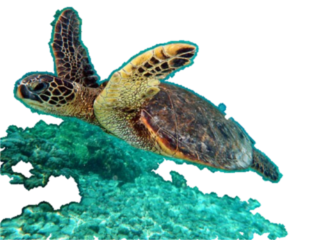
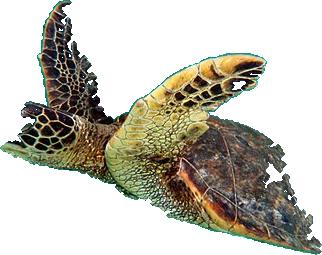
독도 낚시터: 바다로 놓아줄 때 진짜 방생하듯 헤엄쳐 가게 하기
- 통발 안 그 자리에서 사진이 솟아올라 포물선을 그리며 바다에 풍덩 빠지고,
  물보라와 물방울을 내며 헤엄쳐 달아납니다
- 생물마다 바라보는 방향(face)을 적어 두고 그쪽으로 달아나게 함
- 소라·전복·성게·불가사리처럼 헤엄 못 치는 친구는 물방울을 내며
  바닥으로 천천히 가라앉습니다
- 여러 번 누르면 여러 마리가 한꺼번에 흩어져 나갑니다
- 바다거북 누끼에 산호가 붙어 있던 것을 거북만 남게 다시 땀
  (바라보는 방향도 왼쪽으로 바로잡음)

diff --git a/fishing.html b/fishing.html
@@ -120,6 +120,13 @@
   }
   #tankSvg{position:relative;width:100%;height:100%;display:block;z-index:2;}
 
+  /* 통발에서 바다로 돌아가는 친구 */
+  #freeLayer{position:absolute;inset:0;z-index:5;pointer-events:none;overflow:hidden;}
+  #freeLayer .esc{position:absolute;left:0;top:0;transform-origin:50% 50%;
+    will-change:transform,opacity;}
+  #freeLayer .esc img{width:100%;height:100%;object-fit:contain;display:block;
+    filter:drop-shadow(0 4px 10px rgba(0,0,0,.28));}
+
   /* ---------- 아래쪽 큰 버튼 ---------- */
   #bottom{flex:none;padding:10px 12px 12px;background:#0d3550;}
   .big{
@@ -387,6 +394,9 @@
     <svg id="tankSvg" viewBox="0 0 288 116" preserveAspectRatio="xMidYMid meet"><g id="tankFish"></g></svg>
   </div>
 
+  <!-- 바다로 돌려보낸 친구가 헤엄쳐 가는 자리 -->
+  <div id="freeLayer"></div>
+
   <div id="tapLayer" hidden>
     <div id="gaugeBox"><div id="gauge"></div><div id="gaugeFace">🐟</div></div>
     <button id="tapBtn">👆 눌러요!</button>
@@ -543,39 +553,39 @@ const ROD_X = 560, REST_Y = 150;
    img = 헤엄치는 모습(그림) · photo = 도감에 보여 줄 실제 사진 · fact = 한 줄 설명 */
 const DOK = 'dokdo/';
 const SPECIES = [
-  { key:'q', kind:'img', img:'squid.svg',   name:'살오징어',   size:1.15, mul:1,   w:11, cut:'squid.png',
+  { key:'q', kind:'img', img:'squid.svg',   name:'살오징어',   size:1.15, mul:1,   w:11, cut:'squid.png', face:-1,
     info:["📍 독도 바다에서 가장 많이 잡히는 오징어예요","🦑 다리가 10개예요 (짧은 다리 8 + 긴 팔 2)"],
     photo:'squid.jpg',   fact:'밤에 불빛을 보고 모여들어요. 독도 오징어가 유명해요.', snd:[392,523,659] },
-  { key:'r', kind:'img', img:'shrimp.svg',  name:'독도새우',   size:0.95, mul:1,   w:10, cut:'shrimp.png',
+  { key:'r', kind:'img', img:'shrimp.svg',  name:'독도새우',   size:0.95, mul:1,   w:10, cut:'shrimp.png', face:-1,
     info:["📍 독도 깊은 바다에 사는 귀한 새우예요","🦐 다리가 10개예요"],
     photo:'shrimp.jpg',  fact:'도화새우·닭새우·꽃새우를 독도새우라고 불러요.', snd:[523,659,784] },
-  { key:'d', kind:'img', img:'dolldom.svg', name:'돌돔',       size:1.0,  mul:1,   w:11, cut:'dolldom.png',
+  { key:'d', kind:'img', img:'dolldom.svg', name:'돌돔',       size:1.0,  mul:1,   w:11, cut:'dolldom.png', face:-1,
     info:["📍 독도 바위 둘레에 사는 물고기예요","🐟 까만 세로 줄무늬가 일곱 줄쯤 있어요"],
     photo:'dolldom.jpg', fact:'까만 줄무늬가 있어요. 독도 바위 곁에 살아요.', snd:[440,554,659] },
-  { key:'j', kind:'img', img:'jari.svg',    name:'자리돔',     size:0.9,  mul:1,   w:11, photo:'jari.jpg', cut:'jari.png',
+  { key:'j', kind:'img', img:'jari.svg',    name:'자리돔',     size:0.9,  mul:1,   w:11, photo:'jari.jpg', cut:'jari.png', face:-1,
     info:["📍 독도 바다에 가장 많이 사는 물고기예요","🐟 손바닥보다 작고, 떼를 지어 헤엄쳐요"],
     fact:'작고 동글동글해요. 떼를 지어 헤엄쳐요.', snd:[494,587,740] },
-  { key:'b', kind:'img', img:'bangeo.svg',  name:'방어',       size:1.3,  mul:1.5, w:7, photo:'bangeo.jpg', cut:'bangeo.png',
+  { key:'b', kind:'img', img:'bangeo.svg',  name:'방어',       size:1.3,  mul:1.5, w:7, photo:'bangeo.jpg', cut:'bangeo.png', face:-1,
     info:["📍 겨울이면 독도 바다로 몰려와요","🐟 1미터까지 자라는 아주 빠른 물고기예요"],
     fact:'아주 빠르게 헤엄치는 큰 물고기예요.', snd:[330,415,494,587] },
 
-  { key:'o', kind:'img', img:'octopus.svg', name:'문어',       size:1.3,  mul:1.5, w:6, special:true, cut:'octopus.png',
+  { key:'o', kind:'img', img:'octopus.svg', name:'문어',       size:1.3,  mul:1.5, w:6, special:true, cut:'octopus.png', face:-1,
     info:["📍 독도 바위 틈에 숨어 살아요","🐙 다리가 8개예요"],
     photo:'octopus.jpg', fact:'바위 틈에 숨어요. 다리가 여덟 개예요.', snd:[262,330,392,523] },
-  { key:'c', kind:'img', img:'conch.svg',   name:'소라',       size:0.95, mul:1,   w:8, special:true, cut:'conch.png',
+  { key:'c', kind:'img', img:'conch.svg',   name:'소라',       size:0.95, mul:1,   w:8, special:true, cut:'conch.png', face:0,
     info:["📍 독도 바위에 붙어 미역을 먹고 살아요","🐚 넓적한 발 1개로 기어 다녀요"],
     photo:'conch.jpg',   fact:'단단한 껍데기 속에 몸을 숨겨요.', snd:[523,494,523,587] },
-  { key:'a', kind:'img', img:'abalone.svg', name:'전복',       size:0.9,  mul:1,   w:7, special:true, cut:'abalone.png',
+  { key:'a', kind:'img', img:'abalone.svg', name:'전복',       size:0.9,  mul:1,   w:7, special:true, cut:'abalone.png', face:0,
     info:["📍 독도 미역을 먹고 자라는 귀한 조개예요","🐚 넓적한 발 1개로 바위에 꽉 붙어요"],
     photo:'abalone.jpg', fact:'바위에 딱 붙어 미역을 먹고 자라요.', snd:[392,440,523] },
-  { key:'u', kind:'img', img:'urchin.svg',  name:'성게',       size:0.9,  mul:1,   w:6, special:true, photo:'urchin.jpg', cut:'urchin.png',
+  { key:'u', kind:'img', img:'urchin.svg',  name:'성게',       size:0.9,  mul:1,   w:6, special:true, photo:'urchin.jpg', cut:'urchin.png', face:0,
     info:["📍 독도 바위밭에 아주 많이 살아요","🌵 가시 사이에 아주 작은 발이 수백 개 있어요"],
     fact:'가시가 뾰족뾰족해요. 조심조심!', snd:[587,523,587,659] },
-  { key:'s', kind:'img', img:'star.png', name:'불가사리', size:1.05, mul:1, w:5, special:true, photo:'star.jpg', cut:'star.png',
+  { key:'s', kind:'img', img:'star.png', name:'불가사리', size:1.05, mul:1, w:5, special:true, photo:'star.jpg', cut:'star.png', face:0,
     info:["📍 독도 바닷속 바위에서 만날 수 있어요","⭐ 팔이 5개예요. 떨어져도 다시 자라요"],
     fact:'팔이 다섯 개예요. 천천히 움직여요.', snd:[523,659,784] },
 
-  { key:'t', kind:'img', img:'turtle.svg',  name:'바다거북',   size:1.35, mul:2,   w:3, special:true, star:1, cut:'turtle.png',
+  { key:'t', kind:'img', img:'turtle.svg',  name:'바다거북',   size:1.35, mul:2,   w:3, special:true, star:1, cut:'turtle.png', face:-1,
     info:["📍 독도 바다에 가끔 찾아오는 귀한 손님이에요","🐢 지느러미처럼 생긴 다리가 4개예요"],
     photo:'turtle.jpg',  fact:'아주 귀한 손님이에요. 꼭 바다로 놓아 주세요.', snd:[196,262,330,392] },
 ];
@@ -917,17 +927,100 @@ let bonusStars = 0;
 try{ bonusStars = +(localStorage.getItem('fishing-bonus') || 0) || 0; }catch(e){}
 function saveBonus(){ try{ localStorage.setItem('fishing-bonus', bonusStars); }catch(e){} }
 
+/* 장면(SVG) 자리와 화면 자리를 서로 바꿔 줍니다 */
+function sceneToStage(sx, sy){
+  const m = $('scene').getScreenCTM(); if(!m) return { x:sx, y:sy };
+  const r = stage.getBoundingClientRect();
+  return { x: sx*m.a + sy*m.c + m.e - r.left, y: sx*m.b + sy*m.d + m.f - r.top };
+}
+function stageToScene(px, py){
+  const m0 = $('scene').getScreenCTM(); if(!m0) return { x:px, y:py };
+  const m = m0.inverse(), r = stage.getBoundingClientRect();
+  const x = px + r.left, y = py + r.top;
+  return { x: x*m.a + y*m.c + m.e, y: x*m.b + y*m.d + m.f };
+}
+
+/* 통발에 있던 사진이 통발 밖으로 솟았다가 바다에 풍덩 빠지고,
+   헤엄치는 친구는 옆으로 달아나고, 조개·성게처럼 헤엄 못 치는 친구는
+   물방울을 내며 바닥으로 천천히 가라앉습니다. */
+function swimAway(sp, fromRect){
+  const r = stage.getBoundingClientRect();
+  if(!r.width) return;
+  const t = fromRect || tank.getBoundingClientRect();
+  const size = Math.max(54, Math.min(130, r.height * 0.17));
+
+  const box = document.createElement('div');
+  box.className = 'esc';
+  box.style.width = box.style.height = size + 'px';
+  box.innerHTML = '<img src="' + DOK + 'cut/' + sp.cut + '" alt="">';
+  $('freeLayer').appendChild(box);
+
+  const x0 = t.left - r.left + t.width / 2;
+  const y0 = t.top - r.top + t.height / 2;
+  const sink = !sp.face;                                  // 헤엄 못 치는 친구
+  const surf = sceneToStage(300 + Math.random() * 420, 262);   // 물에 들어갈 자리
+  const bed  = sceneToStage(500, 600);
+  const x1 = sink ? surf.x + (Math.random() - .5) * 70
+                  : (sp.face < 0 ? -size : r.width + size);
+  const y1 = sink ? bed.y : surf.y + (r.height - surf.y) * (0.35 + Math.random() * 0.3);
+
+  const DUR = sink ? 2700 : 2200, IN = 0.42;              // IN 까지는 하늘, 그 뒤는 물속
+  let splashed = false, lastBub = 0;
+  const t0 = performance.now();
+  (function step(now){
+    const p = Math.min(1, (now - t0) / DUR);
+    let x, y, rot, sc, op = 1;
+    if(p < IN){                                           // 통발에서 솟았다가 떨어집니다
+      const q = p / IN;
+      x = x0 + (surf.x - x0) * q;
+      y = y0 + (surf.y - y0) * q - Math.sin(Math.PI * q) * r.height * 0.17;
+      rot = -20 + 55 * q;
+      sc = 0.7 + 0.3 * Math.min(1, q * 2.4);
+    }else{                                                // 물속에서 달아납니다
+      const q = (p - IN) / (1 - IN);
+      if(!splashed){
+        splashed = true;
+        const e = stageToScene(surf.x, surf.y);
+        splash(e.x, e.y, 16);
+        chime([523,659,784], 'sine'); buzz([30,20,30]);
+      }
+      const ex = sink ? q * q * .85 + q * .15 : Math.pow(q, 1.7);  // 잠깐 멈칫했다가 쏜살같이
+      const ey = sink ? ex : 1 - Math.pow(1 - Math.min(1, q * 2), 2);  // 물에 들어가면 금세 잠깁니다
+      x = surf.x + (x1 - surf.x) * ex;
+      y = surf.y + (y1 - surf.y) * ey + Math.sin(q * Math.PI * (sink ? 3 : 5)) * (sink ? 16 : 11);
+      rot = sink ? Math.sin(q * Math.PI * 3) * 18 : Math.sin(q * Math.PI * 5) * 8;
+      sc = 1 - q * (sink ? .18 : .3);
+      op = q > .72 ? Math.max(0, (1 - q) / .28) : 1;
+      if(now - lastBub > 140){
+        lastBub = now;
+        const b = stageToScene(x, y - size * .25);
+        bubble(b.x, b.y);
+      }
+    }
+    box.style.opacity = op;
+    box.style.transform = 'translate(' + (x - size / 2).toFixed(1) + 'px,' +
+                          (y - size / 2).toFixed(1) + 'px) rotate(' + rot.toFixed(1) + 'deg) scale(' + sc.toFixed(3) + ')';
+    if(p < 1) requestAnimationFrame(step); else box.remove();
+  })(performance.now());
+}
+
 /* 가장 마지막에 잡은 친구를 바다로 돌려보냅니다.
    잡는 재미와 함께 '놓아주는' 것도 배우도록 늘 눌러 둘 수 있게 두었습니다. */
 function freeLast(){
   if(!caught.length) return;
   const sp = byKey(caught[caught.length - 1]);
+
+  /* 통발 안에서 그 친구가 앉아 있던 자리에서 출발합니다 */
+  const icons = tankFish.querySelectorAll('g');
+  const from = icons.length ? icons[icons.length - 1].getBoundingClientRect() : null;
+
   caught.pop(); saveCaught();
   bonusStars += 1; saveBonus();
   refreshCounts(); drawTank();
-  splash(ROD_X, 268, 16);
-  sparkle(ROD_X, 300, 16);
-  chime([392,523,659,784], 'sine');
+  tank.classList.remove('pop'); void tank.offsetWidth; tank.classList.add('pop');
+
+  swimAway(sp, from && from.width ? from : null);
+  sparkle(500, 240, 10);
   buzz([40,30,40]);
   tell(sp.name + ' 를 바다로 돌려보냈어요! 고마워요 🌊');
 }
@@ -1270,6 +1363,25 @@ function sparkle(x, y, n){
     const a = Math.random() * Math.PI * 2, d = 50 + Math.random() * 110;
     fly(g, x, y, Math.cos(a) * d, Math.sin(a) * d - 40, 900);
   }
+}
+function bubble(x, y){
+  const c = document.createElementNS(NS, 'circle');
+  c.setAttribute('r', 3 + Math.random() * 6);
+  c.setAttribute('fill', 'none');
+  c.setAttribute('stroke', '#eaf8ff');
+  c.setAttribute('stroke-width', 2);
+  const g = document.createElementNS(NS, 'g');
+  g.appendChild(c); fxG.appendChild(g);
+  const dx = (Math.random() - .5) * 40, dy = -70 - Math.random() * 80, dur = 900 + Math.random() * 500;
+  const t0 = performance.now();
+  (function step(now){
+    const q = (now - t0) / dur;
+    if(q >= 1){ g.remove(); return; }
+    g.setAttribute('transform',
+      'translate(' + (x + dx * q + Math.sin(q * 9) * 5) + ',' + (y + dy * q) + ')');
+    g.setAttribute('opacity', (1 - q).toFixed(2));
+    requestAnimationFrame(step);
+  })(performance.now());
 }
 function splash(x, y, n){
   for(let i = 0; i < n; i++){

diff --git a/dokdo/README.md b/dokdo/README.md
@@ -65,6 +65,12 @@
 지느러미·다리처럼 떨어져 보이는 부분도 큰 덩어리의 8% 이상이면 함께 남깁니다.
 전복·돌돔처럼 바탕이 흰 사진은 '색이 옅고 밝은 곳'을 지우는 방식,
 독도새우처럼 바탕이 푸르거나 어두운 사진은 '붉은 기가 도는 곳만 남기는' 방식을 썼습니다.
+바다거북은 둘레 산호까지 함께 남아 있어서, 붉은 기 방식으로 다시 따 거북만 남겼습니다.
+
+### 바라보는 방향
+`face` 는 그 사진 속 생물이 어느 쪽을 보고 있는지입니다.
+(-1 왼쪽 · 1 오른쪽 · 0 헤엄치지 못하는 친구)
+바다로 돌려보낼 때 보고 있는 쪽으로 헤엄쳐 달아나게 하는 데 씁니다.
 
 ### 사진과 '헤엄치는 모습' 이 다른 두 생물
 독도새우와 문어는, **정보 팝업에 쓰는 사진**과 **헤엄치는 누끼**의 출처가 다릅니다.
